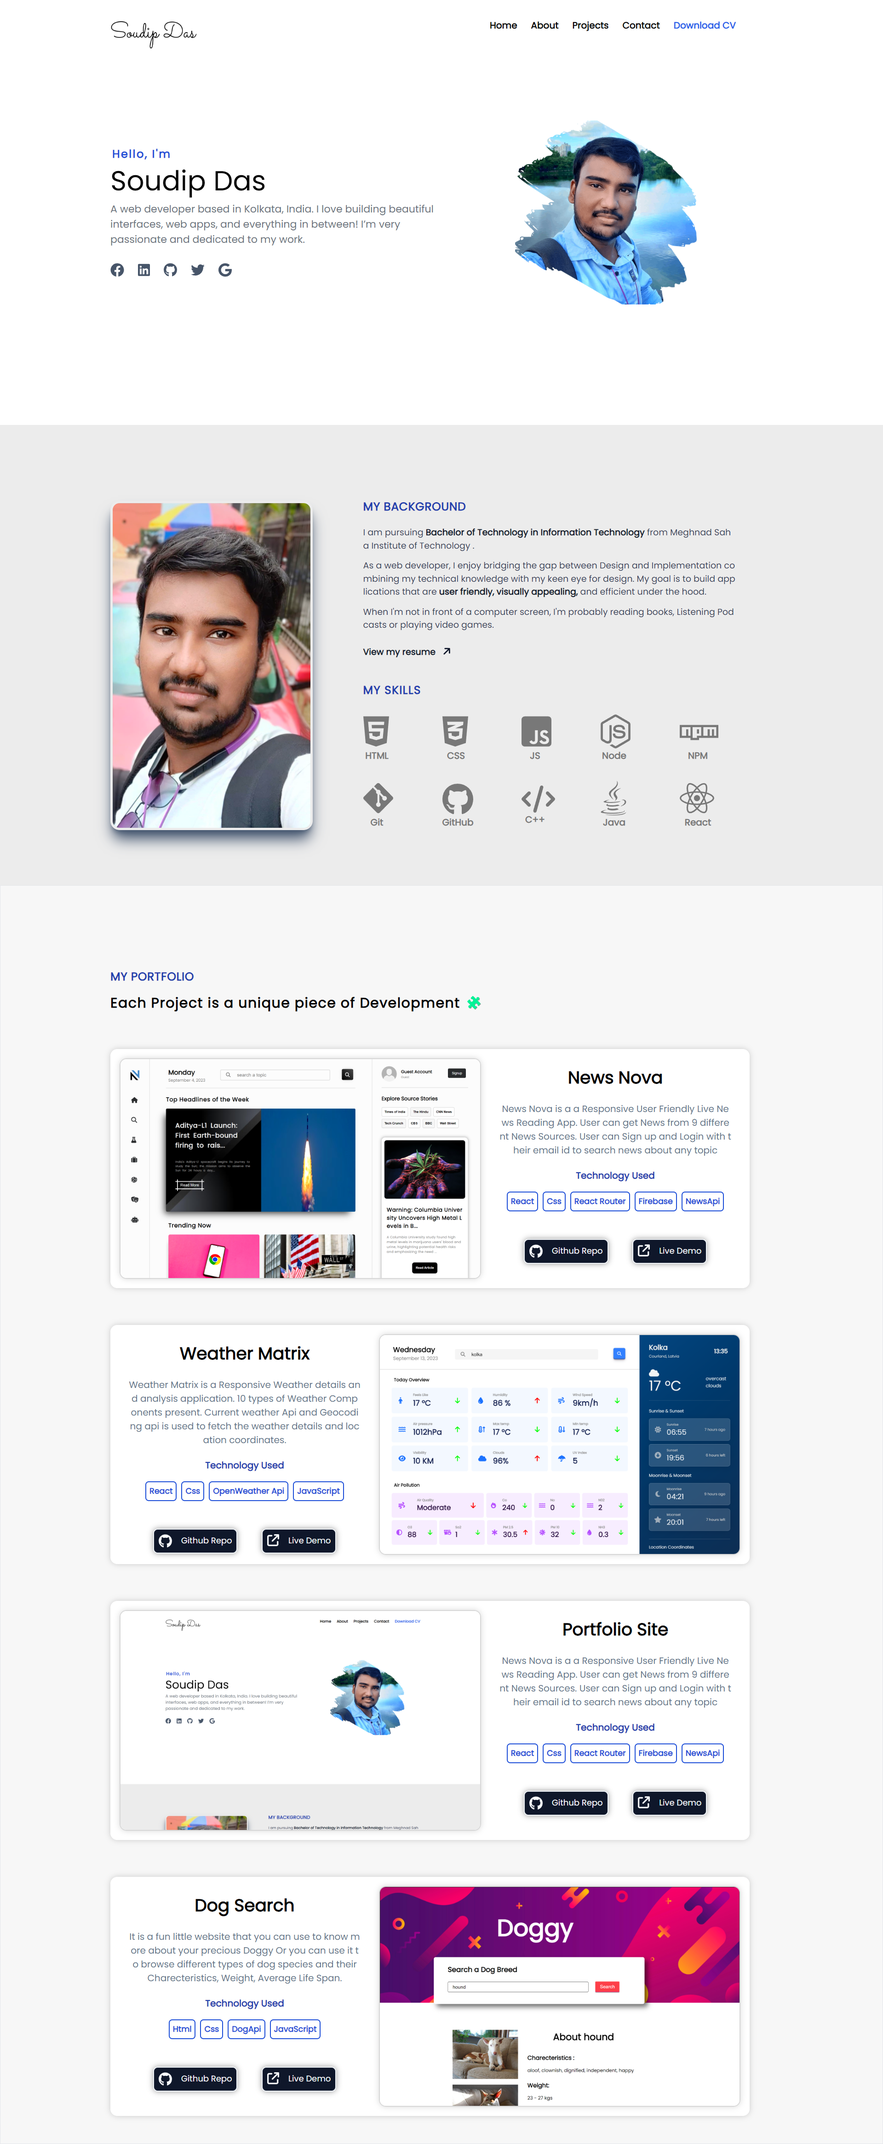
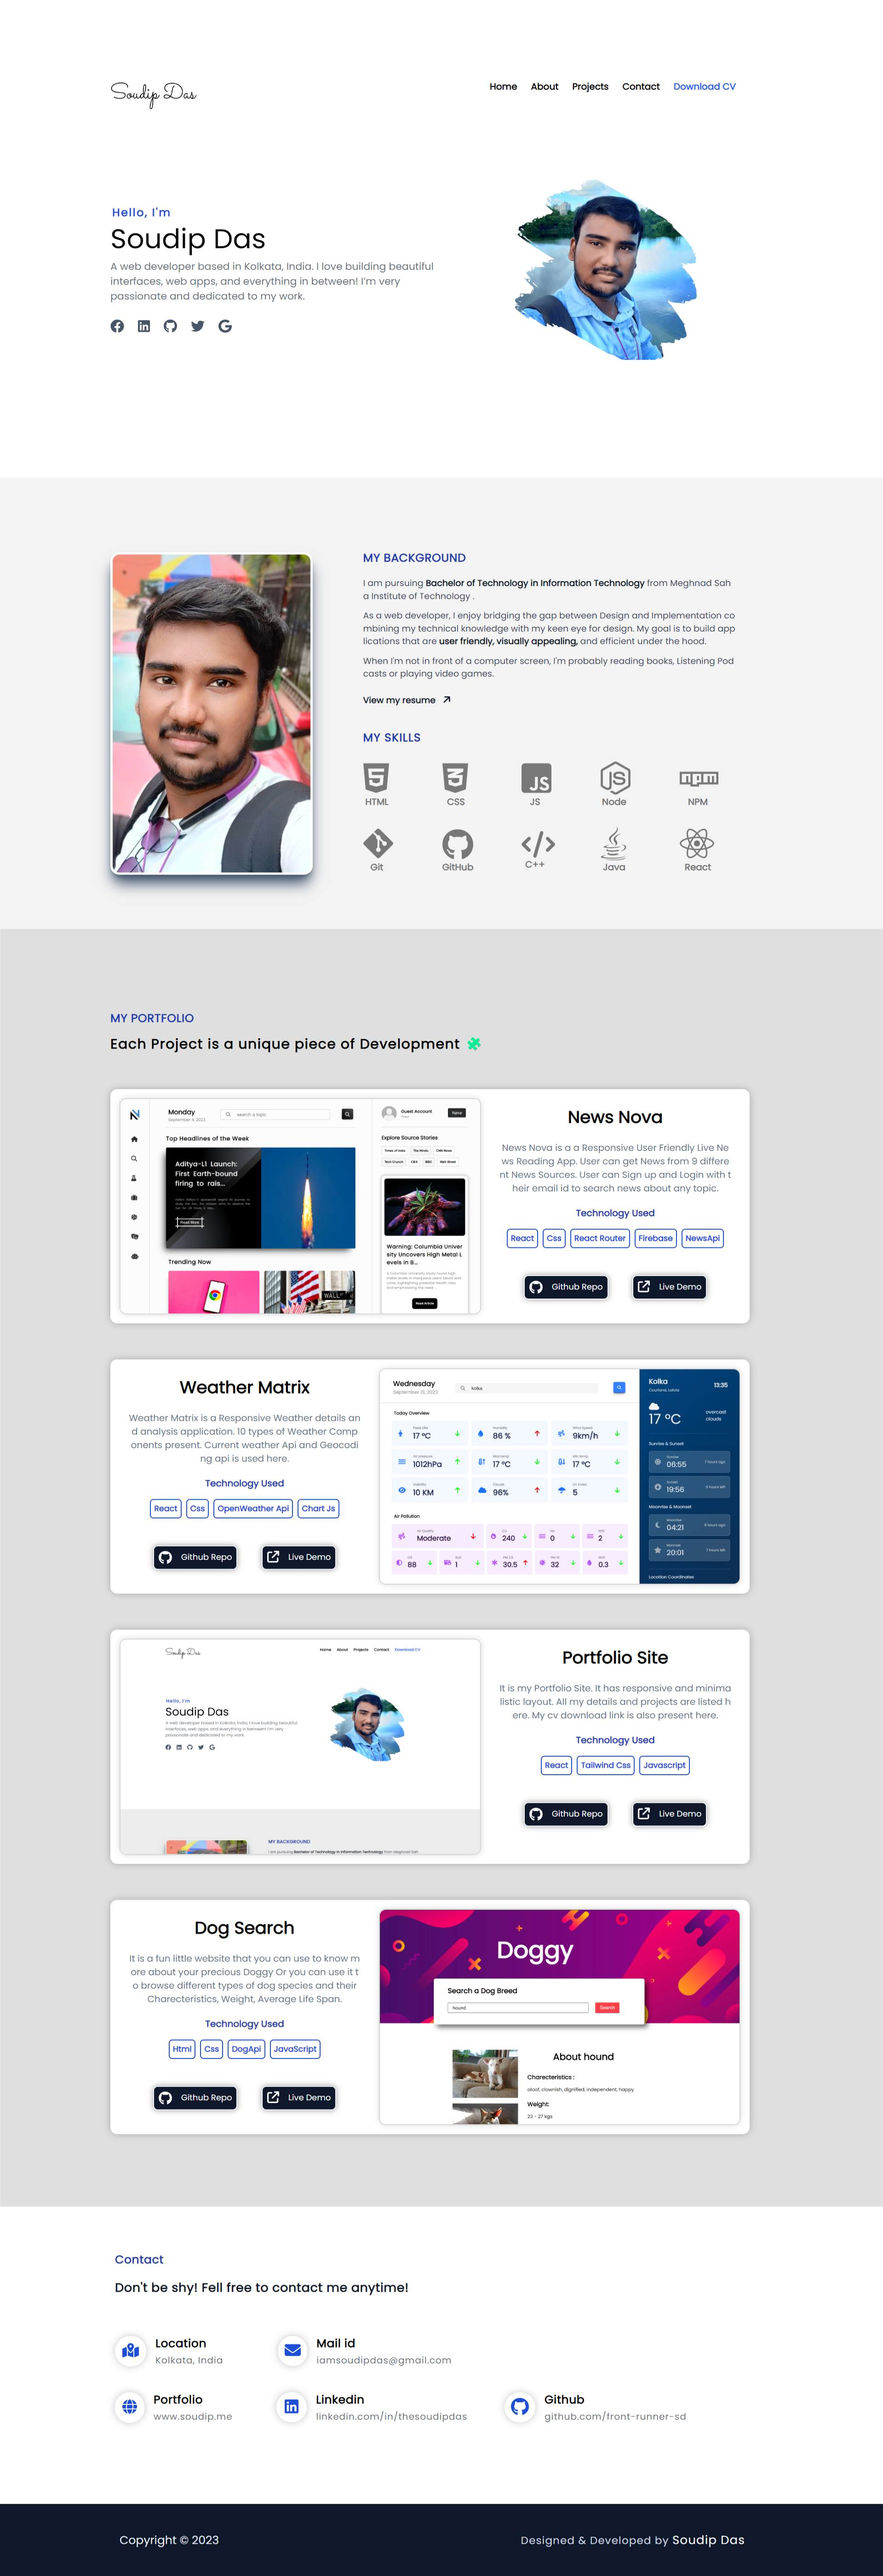
Second Commit

Changed region(s): [[0.0, 0.2177, 1.0, 1.0], [0.5938, 0.0311, 0.8125, 0.1555], [0.125, 0.0622, 0.4688, 0.1244]]

diff --git a/src/components/Contact/Contact.js b/src/components/Contact/Contact.js
@@ -1,0 +1,81 @@
+import { faGithub, faLinkedin } from '@fortawesome/free-brands-svg-icons'
+import { faEnvelope, faGlobe } from '@fortawesome/free-solid-svg-icons'
+import { faMapLocationDot } from '@fortawesome/free-solid-svg-icons'
+import { FontAwesomeIcon } from '@fortawesome/react-fontawesome'
+import React from 'react'
+
+function Contact() {
+  return (
+    <section id='Contact' className='w-full flex flex-col h-[33rem] items-center'>
+         <div className='w-11/12 max-w-6xl mt-20 ml-4'>
+             <h1 className='text-blue-800 font-semibold text-xl tracking-wide'>Contact</h1>
+             <h1 className='text-slate-900 font-semibold text-[1.35rem] tracking-wide mt-5'>Don't be shy! Fell free to contact me anytime!</h1>
+            
+            <div className='flex flex-row mt-14 gap-24'>
+
+             <div className='flex flex-row  h-20 gap-4'> 
+                 <div className='flex justify-center items-center'>
+                 <div className='shadow-[0px_0px_13px_rgba(0,0,0,0.24)] p-[0.8rem] group hover:bg-blue-700 rounded-full'><FontAwesomeIcon icon={faMapLocationDot} className='text-blue-700 text-[1.6rem] group-hover:text-slate-50'/></div>
+                </div>
+                 <div className='flex flex-col justify-center'> 
+                    <h1 className='text-xl font-semibold mb-1 tracking-wide'>Location</h1>
+                    <h1 className='text-gray-500 tracking-wider'>Kolkata, India</h1>
+                 </div>
+             </div>
+
+             <div className='flex flex-row  h-20 gap-4'> 
+                 <div className='flex justify-center items-center'>
+                 <a href='mailto:iamsoudipdas@gmail.com'><div className='shadow-[0px_0px_13px_rgba(0,0,0,0.24)] p-[0.7rem] rounded-full hover:bg-blue-700 group '><FontAwesomeIcon icon={ faEnvelope} className='text-blue-700 text-[1.75rem] group-hover:text-slate-100' /></div></a>
+                </div>
+                 <div className='flex flex-col justify-center'> 
+                    <h1 className='text-xl font-semibold mb-1 tracking-wide '>Mail id</h1>
+                    <h1 className='text-gray-500 tracking-wider'> <a href='mailto:iamsoudipdas@gmail.com'>iamsoudipdas@gmail.com </a></h1>
+                 </div>
+             </div>
+
+             
+            </div>
+
+            <div className='flex flex-row mt-5 gap-24'>
+
+            <div className='flex flex-row  h-20 gap-4'> 
+                <div className='flex justify-center items-center'>
+                <a href='https://soudip.me' target='_blank' rel='noreferrer'>
+                <div className='shadow-[0px_0px_13px_rgba(0,0,0,0.24)] p-[0.8rem] group hover:bg-blue-700 rounded-full'><FontAwesomeIcon icon={faGlobe} className='text-blue-700 text-[1.6rem] group-hover:text-slate-50'/></div>
+                </a>
+            </div>
+            <div className='flex flex-col justify-center'> 
+                <h1 className='text-xl font-semibold mb-1 tracking-wide'>Portfolio</h1>
+                <a href='https://soudip.me' target='_blank' rel='noreferrer'>
+                <h1 className='text-gray-500 tracking-wider'>www.soudip.me</h1>
+                </a>
+            </div>
+        </div>
+
+        <div className='flex flex-row  h-20 gap-4 relative right-5'> 
+            <div className='flex justify-center items-center'>
+            <a href='https://www.linkedin.com/in/thesoudipdas/' target='_blank' rel='noreferrer'><div className='shadow-[0px_0px_13px_rgba(0,0,0,0.24)] p-[0.7rem] rounded-full hover:bg-blue-700 group px-[0.9rem]'><FontAwesomeIcon icon={ faLinkedin} className='text-blue-700 text-[1.75rem] group-hover:text-slate-100' /></div></a>
+        </div>
+        <div className='flex flex-col justify-center'> 
+            <h1 className='text-xl font-semibold mb-1 tracking-wide'>Linkedin</h1>
+            <h1 className='text-gray-500 tracking-wider'> <a href='https://www.linkedin.com/in/thesoudipdas/' target='_blank' rel='noreferrer'>linkedin.com/in/thesoudipdas</a></h1>
+        </div>
+        </div>
+
+        <div className='flex flex-row  h-20 gap-4 relative right-[3.2rem]'> 
+            <div className='flex justify-center items-center'>
+            <a href='http://github.com/front-runner-sd' target='_blank' rel='noreferrer'><div className='shadow-[0px_0px_13px_rgba(0,0,0,0.24)] p-[0.6rem] rounded-full hover:bg-blue-700 group px-[0.7rem]'><FontAwesomeIcon icon={ faGithub} className='text-blue-700 text-[2rem] group-hover:text-slate-100' /></div></a>
+        </div>
+        <div className='flex flex-col justify-center'> 
+            <h1 className='text-xl font-semibold mb-1 tracking-wide'>Github</h1>
+            <h1 className='text-gray-500 tracking-wider'> <a href='https://github.com/front-runner-sd/' target='_blank' rel='noreferrer'>github.com/front-runner-sd</a></h1>
+        </div>
+        </div>
+        
+    </div>
+         </div>
+    </section>
+  )
+}
+
+export default Contact

diff --git a/src/components/Projects/Projects.js b/src/components/Projects/Projects.js
@@ -10,12 +10,12 @@ function Projects() {
       <div className='w-11/12 max-w-6xl'>
            <h1 className='text-left mt-36 font-bold text-xl text-blue-800 tracking-wide'>MY PORTFOLIO</h1>
            <h1 className='mt-4 font-bold text-2xl tracking-wider mb-16'>Each Project is a unique piece of Development 🧩</h1>
-           <div className='flex flex-col gap-16 mb-12'>
+           <div className='flex flex-col gap-16 mb-32'>
                 <ProjectCard img={p1} key={1}  name={"News Nova"} desc={"News Nova is a a Responsive User Friendly Live News Reading App. User can get News from 9 different News Sources. User can Sign up and Login with their email id to search news about any topic."} rev={false} y={-42} link={"https://news-nova.netlify.app"} list={['React','Css','React Router','Firebase','NewsApi']} git={'https://github.com/front-runner-sd/News-Nova-Public'} />
                 
                 <ProjectCard img={p2} key={2} name={"Weather Matrix"} desc={"Weather Matrix is a Responsive Weather details and analysis application. 10 types of  Weather Components present. Current weather Api and Geocoding api is used here."} y={-60} rev={true} link={"https://weather-matrix.netlify.app"} list={['React','Css','OpenWeather Api','Chart Js']} git={'https://github.com/front-runner-sd/Weather-Matrix'}/>
                 
-                <ProjectCard img={p3} key={1}  name={"Portfolio Site"} desc={"It is my Portfolio Site. It has responsive and  minimalistic layout. All my details and projects are listed here. My cv download link is also present here."} rev={false} y={-82} link={"https://soudip.me"} list={['React','Tailwind Css','Javascript']} git={'https://github.com/front-runner-sd/My-Portfolio'} />
+                <ProjectCard img={p3} key={1}  name={"Portfolio Site"} desc={"It is my Portfolio Site. It has responsive and  minimalistic layout. All my details and projects are listed here. My cv download link is also present here."} rev={false} y={-76} link={"https://soudip.me"} list={['React','Tailwind Css','Javascript']} git={'https://github.com/front-runner-sd/My-Portfolio'} />
                 
                 <ProjectCard img={p4} key={2} name={"Dog Search"} desc={"It is a fun little website that you can use to know  more about your precious Doggy Or you can use it to browse different types of dog species and their  Charecteristics, Weight, Average Life Span."} y={-20} rev={true} link={"https://doggy-search-by-soudip-das.netlify.app/"} list={['Html','Css','DogApi','JavaScript']} git={'https://github.com/front-runner-sd/Doggy-Know-More-About-Your-Precious-One'}/>
            </div>

diff --git a/src/components/About/About.js b/src/components/About/About.js
@@ -5,16 +5,16 @@ import { faCss3Alt, faGitAlt, faGithub, faHtml5, faJava, faNodeJs, faNpm, faReac
 import { faArrowRight,faCode } from '@fortawesome/free-solid-svg-icons'
 function about() {
   return (
-    <section id='About' className='w-full bg-[#f0f0f0] flex flex-col justify-center items-center'>
+    <section id='About' className='w-full bg-[#f3f3f3] flex flex-col justify-center items-center'>
       <div className='w-11/12 max-w-6xl'>
         <div className='flex pt-32 pb-24'>
-        <div className='basis-[40%] saturate-[1.25]'><img src={image}  alt='Soudip Das' className='w-[22rem] rounded-2xl shadow-xl shadow-slate-600  h-[35.8rem] p-1 mt-1'/></div>
+        <div className='basis-[40%] saturate-[1.25] '><img src={image}  alt='Soudip Das' className='w-[22rem] rounded-2xl shadow-xl shadow-slate-600 bg-white  h-[35.8rem] p-1 mt-1'/></div>
         <div className='basis-[59%] mr-16'>
           <h1 className='font-semibold text-xl text-blue-800 mb-5 tracking-wide'>MY BACKGROUND</h1>
           <p className='font text-[0.95rem] text-slate-700 break-words mb-3 break-all'>I am pursuing <b className='text-slate-900'>Bachelor of Technology in Information Technology</b> from Meghnad Saha Institute of Technology .</p>
           <p className='font  text-[0.95rem] text-slate-700 break-words mb-3 break-all'> As a web developer, I enjoy bridging the gap between Design and Implementation combining my technical knowledge with my keen eye for design. My goal is to build applications that are <b className='text-slate-900'>user friendly, visually appealing, </b> and efficient under the hood. </p>
           <p className='font  text-[0.95rem] text-slate-700 break-words break-all'>  When I'm not in front of a computer screen, I'm probably reading books, Listening Podcasts or playing video games.<br/><br/></p>
-          <a href='' className='text-[0.95rem] font-semibold text-slate-900 group hover:text-blue-700'>View my resume  <FontAwesomeIcon className='text-[1.1rem] ml-2 text-slate-900 group-hover:text-blue-700 -rotate-45' icon={faArrowRight}/></a>
+          <a href='https://drive.google.com/file/d/1DpzjRhbBaAzNS7v15E5hfQ1_vEd6JRdQ/view?usp=drive_link' rel='noreferrer' target='_blank' className='text-[0.95rem] font-semibold text-slate-900 group hover:text-blue-700'>View my resume  <FontAwesomeIcon className='text-[1.1rem] ml-2 text-slate-900 group-hover:text-blue-700 -rotate-45' icon={faArrowRight}/></a>
           <h1 className='font-semibold text-xl text-blue-800 mb-7 mt-10 tracking-wider'>MY SKILLS</h1>
           <ul className='flex gap-x-[5.6rem] gap-y-8 flex-wrap '>
             <li>

diff --git a/src/components/landing/Landing.js b/src/components/landing/Landing.js
@@ -16,7 +16,7 @@ function landing() {
           <li className='hover:text-blue-600 transition-colors hover:border-b-blue-700 hover:border-b-4 pb-1'><a href='#Home' className='transition-all'>Home</a></li>
           <li className='hover:text-blue-600 transition-colors hover:border-b-blue-700 hover:border-b-4  pb-1'><a href='#About'>About</a></li>
           <li className='hover:text-blue-600 transition-colors hover:border-b-blue-700 hover:border-b-4  pb-1'><a href='#Projects'>Projects</a></li>
-          <li className='hover:text-blue-600 transition-colors hover:border-b-blue-700 hover:border-b-4  pb-1'><a href='#Home'>Contact</a></li>
+          <li className='hover:text-blue-600 transition-colors hover:border-b-blue-700 hover:border-b-4  pb-1'><a href='#Contact'>Contact</a></li>
           <li className=' text-blue-600 hover:text-blue-800 transition-colors hover:border-b-blue-700 hover:border-b-4  pb-1'><a href='#Home'>Download CV</a></li>
        </ul>
     </div>

diff --git a/src/components/Footer/Footer.js b/src/components/Footer/Footer.js
@@ -5,7 +5,7 @@ function Footer() {
     <footer className='w-full flex flex-col justify-center items-center  bg-slate-900'>
         <div className='h-32 w-11/12 max-w-6xl flex justify-between items-center'>
              <div className=''><h1 className='text-left text-slate-200 text-xl ml-4'>Copyright © 2023</h1></div>
-             <div className=''><h1 className='text-left text-slate-300  mr-12 text-xl tracking-wider'>Designed & Developed by <b className='text-slate-50 font-normal text-[1.3rem]'>Soudip Das</b></h1></div>
+             <div className=''><h1 className='text-left text-slate-300  mr-12 text-[1.15rem] tracking-wider'>Designed & Developed by <b className='text-slate-50 font-normal text-[1.3rem]'>Soudip Das</b></h1></div>
         </div>
     </footer>
   )

diff --git a/src/App.js b/src/App.js
@@ -3,6 +3,8 @@ import About from './components/About/About';
 import Landing from './components/landing/Landing';
 import Projects from './components/Projects/Projects';
 import Footer from './components/Footer/Footer';
+import Contact from './components/Contact/Contact';
+
 function App() {
   return (
     <div className='flex justify-center scroll-smooth'>
@@ -10,6 +12,7 @@ function App() {
       <Landing/>
       <About/>
      <Projects/>
+     <Contact/>
      <Footer/>
     </div>
     </div>

diff --git a/tailwind.config.js b/tailwind.config.js
@@ -11,7 +11,7 @@ module.exports = {
   'hover:translate-y-[-43%]',
   'hover:translate-y-[-60%]',
   'hover:translate-y-[-20%]',
-  'hover:translate-y-[-82%]',
+  'hover:translate-y-[-76%]',
   'flex-row',
   'flex-row-reverse',
   'pl-4',
